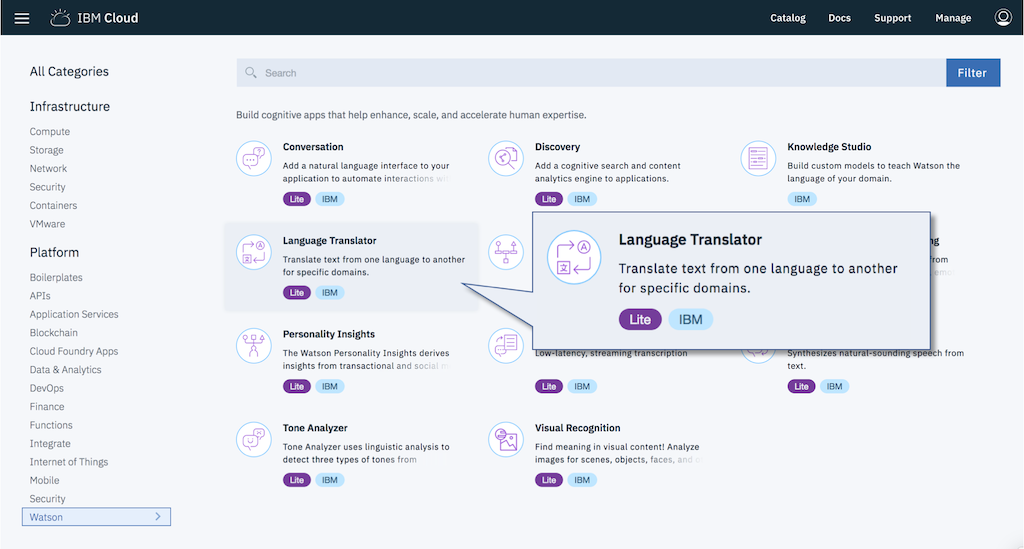
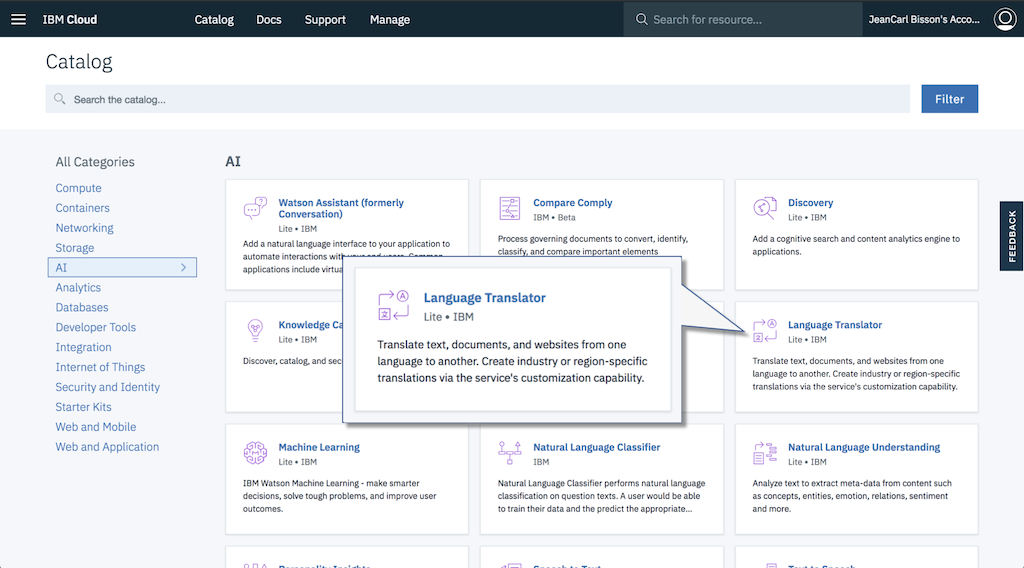
Updated screenshots

diff --git a/language-translator.md b/language-translator.md
@@ -4,26 +4,30 @@ TJBot can translate content with the help of the [Watson Language Translator Ser
 
 ## Create a Watson Language Translator service
 
-1. Sign up for an IBM Cloud account at [bluemix.net](https://bluemix.net). If you already have an IBM Cloud account, sign in.
+1. [Sign up](https://ibm.biz/tjbot-challenge-signup) for an IBM Cloud account. If you already have an IBM Cloud account, sign in.
 
 2. Click on the __Catalog__ link in the top right corner of the IBM Cloud dashboard.
 
-3. Select the __Language Translator__ service tile under the __Watson__ section of the catalog.
+	![](assets/catalog.png)
+
+3. Select the __Language Translator__ service tile under the __AI__ section of the catalog.
 
 	![](assets/catalog-lt.png)
 	
-4. Click on __Create__ to create a service instance.	
-5. Select __Service Credentials__ in the left sidebar.
+4. Click on __Create__ to create a service instance.
 
-	![](assets/sidebar-lt.png)
-	
-6. Click on __View Credentials__ to display the credentials (note: if no credentials are listed, click on __New credential__ to create a new set). Copy the username and password credentials into the `.env` file in the simulator.
+	![](assets/create-lt.png)	
+
+5. Click __Show Credentials__.
 
 	![](assets/servicecredentials-lt.png)
 	
+6. Copy the API Key credentials into the `.env` file in the simulator.
+
+	![](assets/credentials-lt.png)
+	
 ```
-LANGUAGE_TRANSLATOR_USERNAME=
-LANGUAGE_TRANSLATOR_PASSWORD=
+LANGUAGE_TRANSLATOR_API_KEY=
 ```
 
 ## Command TJBot to Translate Content
@@ -44,8 +48,7 @@ For each step, REPLACE the placeholders `/* step ## */` with the suggested code.
 
 	```
 	  language_translator: {
-	    username: process.env.LANGUAGE_TRANSLATOR_USERNAME,
-	    password: process.env.LANGUAGE_TRANSLATOR_PASSWORD
+	    iam_apikey: LANGUAGE_TRANSLATOR_API_KEY
 	  }
 	```
 	

diff --git a/speech-to-text.md b/speech-to-text.md
@@ -4,22 +4,27 @@ TJBot can listen using the microphone and with the help of the [Watson Speech to
 
 ## Create a Watson Speech to Text service
 
-1. Sign up for an IBM Cloud account at [bluemix.net](https://bluemix.net). If you already have an IBM Cloud account, sign in.
+1. [Sign up](https://ibm.biz/tjbot-challenge-signup) for an IBM Cloud account. If you already have an IBM Cloud account, sign in.
 
 2. Click on the __Catalog__ link in the top right corner of the IBM Cloud dashboard.
 
-3. Select the __Speech to Text__ service tile under the __Watson__ section of the catalog.
+	![](assets/catalog.png)
+
+3. Select the __Speech to Text__ service tile under the __AI__ section of the catalog.
 
 	![](assets/catalog-stt.png)
 	
-4. Click on __Create__ to create a service instance.	
-5. Select __Service Credentials__ in the left sidebar.
+4. Click on __Create__ to create a service instance.
 
-	![](assets/sidebar-tts.png)
-	
-6. Click on __View Credentials__ to display the credentials (note: if no credentials are listed, click on __New credential__ to create a new set). Copy the username and password credentials into the `.env` file in the simulator.
+	![](assets/create-stt.png)
+
+5. Click __Show Credentials__.
 
 	![](assets/servicecredentials-stt.png)
+	
+6. Copy the username and password credentials into the `.env` file in the simulator.
+
+	![](assets/credentials-stt.png)
 	
 ```
 SPEECH_TO_TEXT_USERNAME=

diff --git a/tone-analyzer.md b/tone-analyzer.md
@@ -4,22 +4,27 @@ TJBot can analyze the emotion of text with the help of the [Watson Tone Analyzer
 
 ## Create a Watson Tone Analyzer service
 
-1. Sign up for an IBM Cloud account at [bluemix.net](https://bluemix.net). If you already have an IBM Cloud account, sign in.
+1. [Sign up](https://ibm.biz/tjbot-challenge-signup) for an IBM Cloud account. If you already have an IBM Cloud account, sign in.
 
 2. Click on the __Catalog__ link in the top right corner of the IBM Cloud dashboard.
 
-3. Select the __Language Translator__ service tile under the __Watson__ section of the catalog.
+	![](assets/catalog.png)
 
-	![](assets/catalog-lt.png)
+3. Select the __Tone Analyzer__ service tile under the __AI__ section of the catalog.
+
+	![](assets/catalog-ta.png)
 
 4. Click on __Create__ to create a service instance.
-5. Select __Service Credentials__ in the left sidebar.
 
-	![](assets/sidebar-lt.png)
+	![](assets/create-ta.png)
 
-6. Click on __View Credentials__ to display the credentials (note: if no credentials are listed, click on __New credential__ to create a new set). Copy the username and password credentials into the `.env` file in the simulator.
+5. Click __Show Credentials__.
 
 	![](assets/servicecredentials-ta.png)
+
+6. Copy the username and password credentials into the `.env` file in the simulator.
+
+	![](assets/credentials-ta.png)
 
 ```
 TONE_ANALYZER_USERNAME=

diff --git a/text-to-speech.md b/text-to-speech.md
@@ -4,23 +4,27 @@ TJBot can speak using the speaker and with the help of the [Watson Text to Speec
 
 ## Create a Watson Text to Speech service
 
-1. Sign up for an IBM Cloud account at [bluemix.net](https://bluemix.net). If you already have an IBM Cloud account, sign in.
+1. [Sign up](https://ibm.biz/tjbot-challenge-signup) for an IBM Cloud account. If you already have an IBM Cloud account, sign in.
 
 2. Click on the __Catalog__ link in the top right corner of the IBM Cloud dashboard.
 
-3. Select the __Text to Speech__ service tile under the __Watson__ section of the catalog.
+	![](assets/catalog.png)
+
+3. Select the __Text to Speech__ service tile under the __AI__ section of the catalog.
 
 	![](assets/catalog-tts.png)
 
 4. Click on __Create__ to create a service instance.
 
-5. Select __Service Credentials__ in the left sidebar.
+	![](assets/create-ta.png)
 
-	![](assets/sidebar-tts.png)
-
-6. Click on __View Credentials__ to display the credentials (note: if no credentials are listed, click on __New credential__ to create a new set). Copy the username and password credentials into the `.env` file in the simulator.
+5. Click __Show Credentials__.
 
 	![](assets/servicecredentials-tts.png)
+
+6. Copy the username and password credentials into the `.env` file in the simulator.
+
+	![](assets/credentials-tts.png)
 
 ```
 TEXT_TO_SPEECH_USERNAME=

diff --git a/visual-recognition.md b/visual-recognition.md
@@ -4,22 +4,27 @@ TJBot can recognize objects and colors in an image with the help of the [Watson 
 
 ## Create a Watson Visual Recognition service
 
-1. Sign up for an IBM Cloud account at [bluemix.net](https://bluemix.net). If you already have an IBM Cloud account, sign in.
+1. [Sign up](https://ibm.biz/tjbot-challenge-signup) for an IBM Cloud account. If you already have an IBM Cloud account, sign in.
 
 2. Click on the __Catalog__ link in the top right corner of the IBM Cloud dashboard.
 
-3. Select the __Visual Recognition__ service tile under the __Watson__ section of the catalog.
+	![](assets/catalog.png)
+
+3. Select the __Visual Recognition__ service tile under the __AI__ section of the catalog.
 
 	![](assets/catalog-vr.png)
 
 4. Click on __Create__ to create a service instance.
-5. Select __Service Credentials__ in the left sidebar.
 
-	![](assets/sidebar-stt.png)
+	![](assets/create-vr.png)
 
-6. Click on __View Credentials__ to display the credentials (note: if no credentials are listed, click on __New credential__ to create a new set). Copy the api_key credential into the `.env` file in the simulator.
+5. Click __Show Credentials__.
 
 	![](assets/servicecredentials-vr.png)
+
+6. Copy the api_key credential into the `.env` file in the simulator.
+
+	![](assets/credentials-vr.png)
 
 ```
 VISUAL_RECOGNITION_API_KEY=
